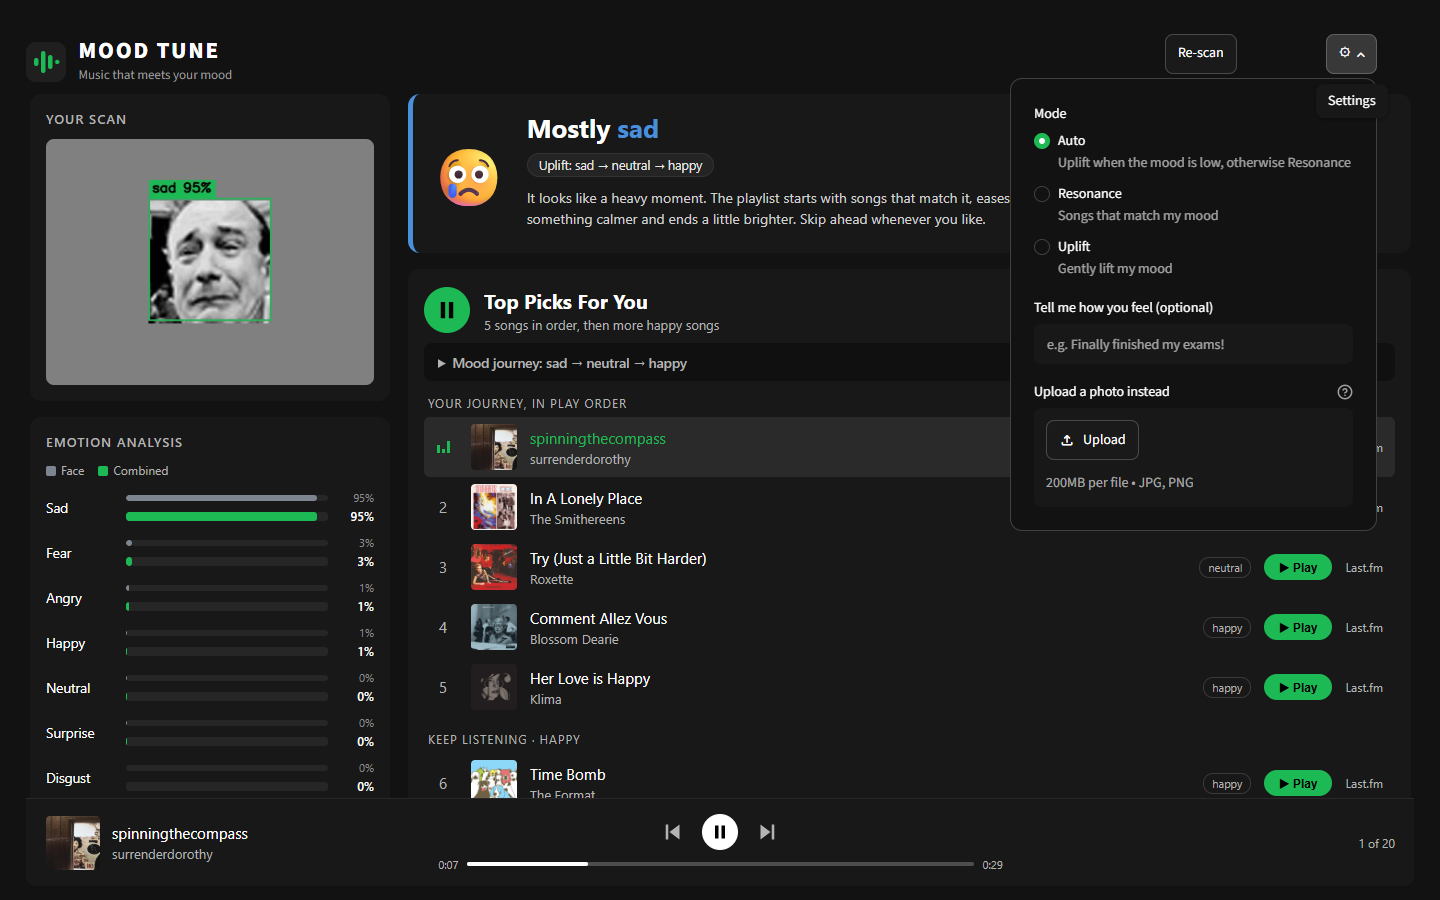
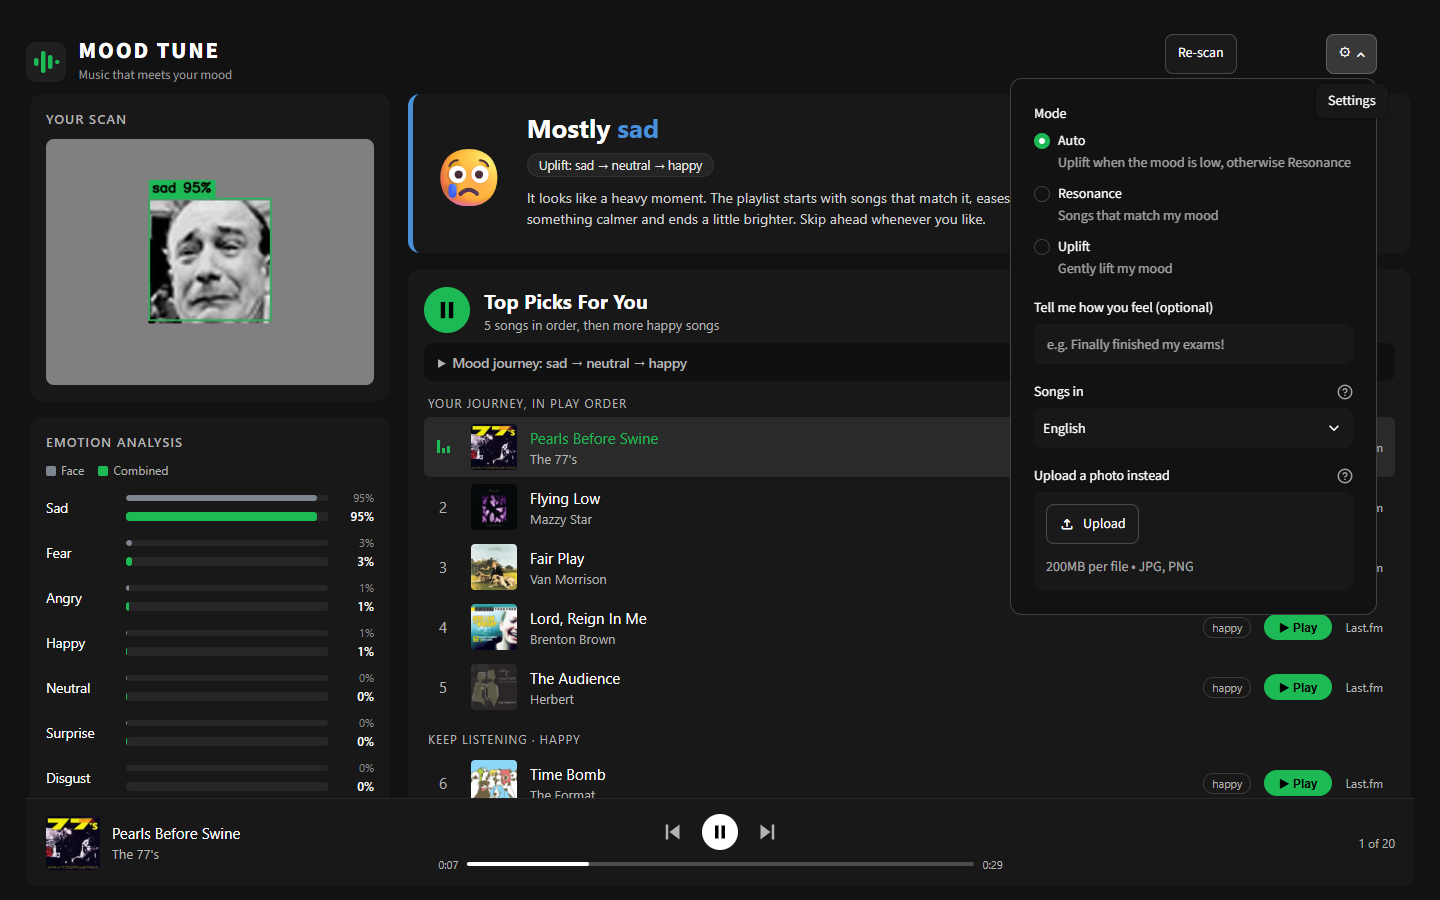
Document the language selector and per-language Uplift results
- UPLIFT.md: "Songs in" setting; new "Other languages" section with the
  500-playlist results for English, Hindi, Tamil and Korean (playable songs
  only) and the limits: few playable songs near the neutral centre (Korean
  journeys end at valence ~4.9), a gap mid-way along the angry path, Telugu
  and Malayalam Resonance only.
- data/README.md: the first-listed-artist matching rule and the preview
  counts per language and bucket.
- docs/screenshots: the settings popover with "Songs in", and Hindi, Tamil,
  Korean and Telugu (with the Resonance-only note) after a sad scan.

diff --git a/UPLIFT.md b/UPLIFT.md
@@ -10,6 +10,10 @@ mood is low, otherwise Resonance); the settings popover can force either:
 
 The logic is in `uplift.py` and needs neither the webcam nor Streamlit.
 
+The settings popover also has **Songs in** (English, Hindi, Tamil, Telugu,
+Malayalam, Korean). Uplift is offered for English, Hindi, Tamil and Korean;
+see "Other languages" below.
+
 ## Design
 
 1. **When it applies.** Uplift only runs when sad, angry, fear and disgust
@@ -102,7 +106,7 @@ further from the waypoints.
 
 ## With playable songs only
 
-The app can only play songs that have a saved preview (1,180 so far; see
+The app can only play songs that have a saved preview (1,180 English songs so far; see
 "Song previews" in `data/README.md`). `python scripts/evaluate_uplift.py
 --previews` repeats the check on those songs alone and writes
 `models/uplift/report_previews.txt`:
@@ -124,3 +128,59 @@ the nearest playable songs sit further from the first three waypoints, and
 songs 2 and 3 overlap (mean valence 4.56 and 4.74). About half of angry
 playlists therefore have one step where valence dips slightly instead of
 rising, although the overall direction (4.02 to 5.72) holds.
+
+## Other languages
+
+Songs in Hindi, Tamil and Korean come from a Spotify dataset and were put on
+the same valence/arousal scale and into buckets by their distance to the
+English buckets' centres (see "Songs in other languages" in
+`data/README.md`). Uplift plans every journey with the **English** bucket
+centres and spread, whatever the language, and then picks only songs of the
+chosen language that have a saved preview; it never borrows songs from
+another language.
+
+`python scripts/evaluate_uplift.py --language <language> --previews` repeats
+the 500-playlist check and writes `models/uplift/report_previews_<language>.txt`.
+Playable songs are those in the table under "Song previews" in
+`data/README.md` (166–180 per language, about 25 per bucket).
+
+| Start | | English | Hindi | Tamil | Korean |
+|---|---|---|---|---|---|
+| sad | rises at every step | 100.0% | 81.8% | 96.6% | 83.2% |
+| | rises at 3 or more of 4 steps | 100% | 99.8% | 100% | 100% |
+| | mean valence, song 1 → 5 | 3.44 → 7.33 | 3.39 → 7.41 | 3.45 → 7.33 | 3.43 → 7.35 |
+| angry | rises at every step | 51.6% | 21.0% | 13.4% | 19.4% |
+| | rises at 3 or more of 4 steps | 99.4% | 73.8% | 65.2% | 71.0% |
+| | mean valence, song 1 → 5 | 4.02 → 5.72 | 3.93 → 5.49 | 3.97 → 5.38 | 3.96 → 4.86 |
+| fear | rises at every step | 100.0% | 35.4% | 46.8% | 22.0% |
+| | rises at 3 or more of 4 steps | 100% | 92.6% | 97.6% | 72.4% |
+| | mean valence, song 1 → 5 | 3.56 → 5.72 | 3.48 → 5.49 | 3.45 → 5.42 | 3.47 → 4.90 |
+| disgust | rises at every step | 100.0% | 49.8% | 76.8% | 45.8% |
+| | rises at 3 or more of 4 steps | 100% | 90.6% | 99.4% | 88.6% |
+| | mean valence, song 1 → 5 | 2.98 → 5.72 | 2.96 → 5.51 | 3.00 → 5.43 | 2.97 → 4.90 |
+
+In every language every playlist has all five songs and ends more positive
+than it began (100%). Beyond that the journeys are rougher than in English:
+
+- **Few playable songs near the calm end.** Fewer than 10 playable songs sit
+  within 0.5 standard deviations of the neutral centre (5.71, 3.24): 8 in
+  Hindi, 7 in Tamil and 2 in Korean, against 135 in English. Every journey
+  except sad's ends there, so the last songs are the same few, or further
+  away: Korean angry, fear and disgust journeys end at a mean valence of
+  about 4.9 instead of 5.7.
+- **A gap in the middle of the angry path.** No playable Hindi, Tamil or
+  Korean song lies within 0.5 of the angry path's third waypoint
+  (4.86, 4.20), so songs 2 and 3 often do not rise (angry rises at every
+  step in only 13–21% of playlists).
+- **Sad works best** (82–97% rise at every step), because the sad → neutral →
+  happy path passes through the larger sad and happy buckets.
+- These numbers come from about 25 playable songs per bucket. More preview
+  lookups near the waypoints (`scripts/fetch_previews.py --language`) would
+  thicken the thin points; nothing in the algorithm was changed for these
+  languages.
+- **Telugu and Malayalam are Resonance only** (240 and 193 playable songs in
+  all, as few as 6 in a bucket). If Uplift would apply, the app plays
+  Resonance and says "Uplift needs more songs than we have in <language>".
+- The song placements themselves are weaker than for English (an audio-based
+  score mapped onto a tag-based scale; see `data/README.md`), so a song's spot
+  on the journey is a rougher guess.

diff --git a/data/README.md b/data/README.md
@@ -288,7 +288,7 @@ only; the Muse buckets are unchanged.
 
 ## Song previews: `data/songs/previews.csv`
 
-The song file only has Last.fm links, which cannot be played. The app looks
+The song file only has Last.fm and Spotify links, which cannot be played. The app looks
 each song up in the free iTunes Search API (no key) to get a 30-second preview
 clip and album art, and stores the answer here, including "no preview found",
 so each song is only ever looked up once. The file is committed, so the app
@@ -297,10 +297,13 @@ can play music straight after cloning without calling the API.
 Columns: `lastfm_url`, `preview_url`, `artwork_url`, `itunes_title`,
 `itunes_artist` (the last four are empty when no match was found).
 
-A result is accepted only if both the artist and the title loosely match
-(ignoring case, accents and punctuation).
+A result is accepted only if the title loosely matches (ignoring case, accents
+and punctuation, or sharing a word) and so does the artist: the whole artist
+credit, or failing that its first-listed artist (for credits such as
+"G. V. Prakash, Saindhavi", which iTunes spells "G.V. Prakash Kumar, Saindhavi
+& ...").
 
-So far 1,721 of the 10,901 songs have been checked and 1,180 have a preview:
+So far 1,721 of the 10,901 English songs have been checked and 1,180 have a preview:
 
 | Bucket | Songs | Checked | With preview | Hit rate |
 |---|---|---|---|---|
@@ -315,6 +318,25 @@ So far 1,721 of the 10,901 songs have been checked and 1,180 have a preview:
 The songs checked first were the ones nearest each Uplift waypoint, then
 others in turn from every bucket. The angry bucket has been checked in full;
 fewer than half its songs are on iTunes.
+
+For the other languages, `python scripts/fetch_previews.py --language Hindi
+Tamil Korean Telugu Malayalam` checked up to 30 songs per bucket of Hindi,
+Tamil and Korean (nearest the Uplift waypoints first) and every Telugu and
+Malayalam song, skipping repeated copies of a song. 1,168 lookups, 948 with a
+preview (81%):
+
+| Language | Checked | happy | sad | angry | fear | disgust | surprise | neutral | With preview | Hit rate |
+|---|---|---|---|---|---|---|---|---|---|---|
+| Hindi | 210 | 22 | 17 | 25 | 28 | 26 | 25 | 26 | 169 | 80% |
+| Tamil | 210 | 29 | 23 | 24 | 26 | 28 | 24 | 26 | 180 | 86% |
+| Korean | 210 | 25 | 24 | 27 | 18 | 23 | 24 | 25 | 166 | 79% |
+| Telugu | 298 | 31 | 39 | 17 | 25 | 39 | 48 | 41 | 240 | 81% |
+| Malayalam | 240 | 22 | 26 | 6 | 16 | 32 | 50 | 41 | 193 | 80% |
+
+(The bucket columns are songs with a preview.) The app's "Songs in" setting
+only plays songs in the chosen language, so these are the songs it has to
+work with; a queue is never padded with another language, so it can be
+shorter than 30 (for example 6 Malayalam angry songs).
 
 **The API is rate-limited** to roughly 20 requests a minute, and a burst of
 about 150 requests got this machine's searches refused (HTTP 403) for hours.
